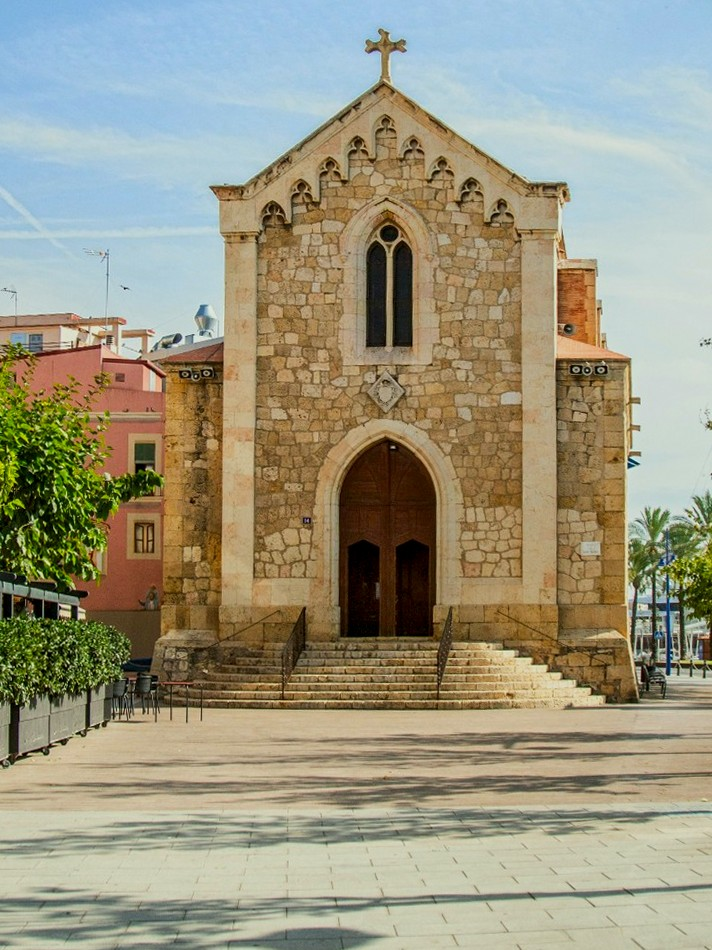
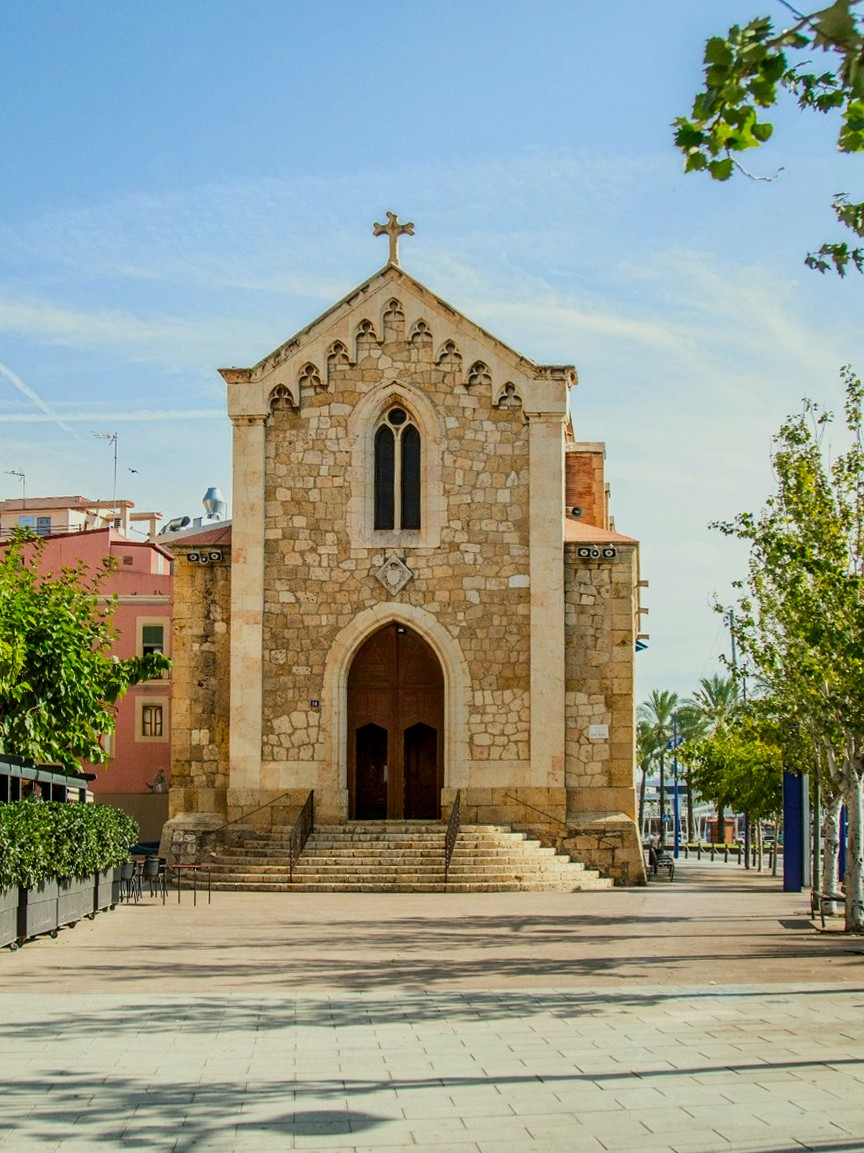
Church: only trim top
Claude-Session: https://claude.ai/code/session_01NVvXN2ZfjubBKEGKyT8HuS

diff --git a/index.html b/index.html
@@ -175,7 +175,7 @@ footer p{font-size:13.33px}
     <h2 class="d"><span class="n">I.</span><span class="t">Ceremonia en Sant<br>Pere del Serrallo</span></h2>
     <p class="body">A las 17:30, frente al mar, en la iglesia del barrio de pescadores de Tarragona.</p>
     <div><a class="btn" href="https://www.google.com/maps/search/?api=1&amp;query=Esgl%C3%A9sia+de+Sant+Pere+del+Serrallo+Tarragona" target="_blank" rel="noopener"><span>Ver en Google Maps</span></a></div>
-    <figure class="photo" style="margin-bottom:0;margin-left:0;margin-right:0"><img src="img/iglesia-boldu.jpg?v=3" alt="Iglesia de Sant Pere del Serrallo, Tarragona" loading="lazy"></figure>
+    <figure class="photo" style="margin-bottom:0;margin-left:0;margin-right:0"><img src="img/iglesia-boldu.jpg?v=4" alt="Iglesia de Sant Pere del Serrallo, Tarragona" loading="lazy"></figure>
   </div>
 </section>
 
